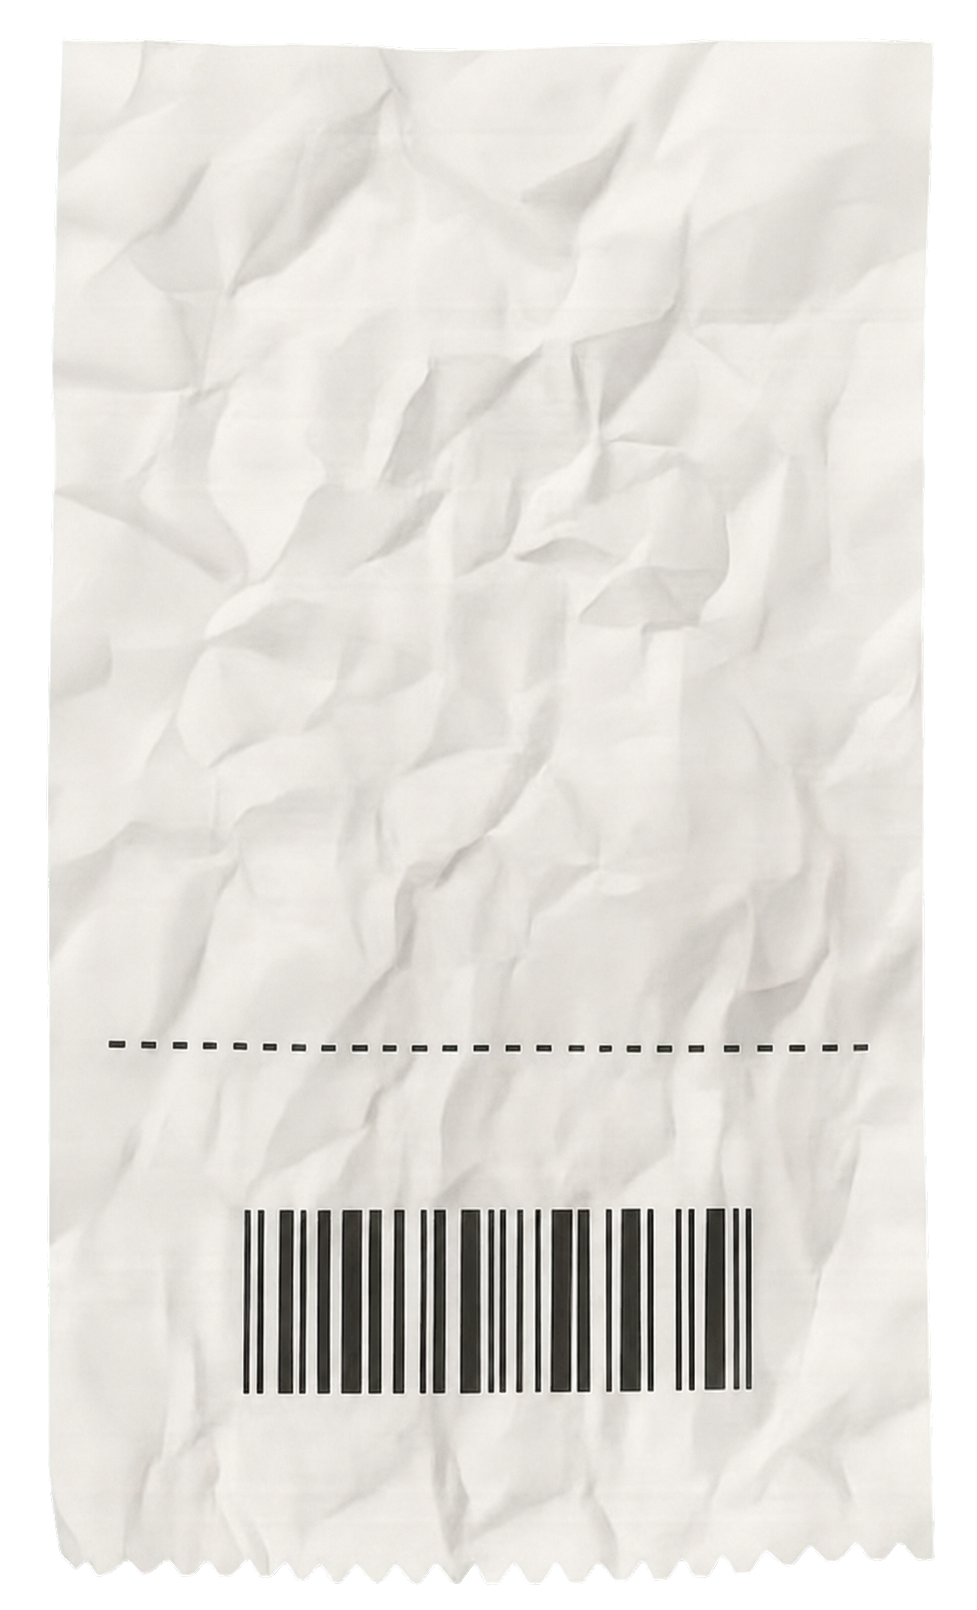
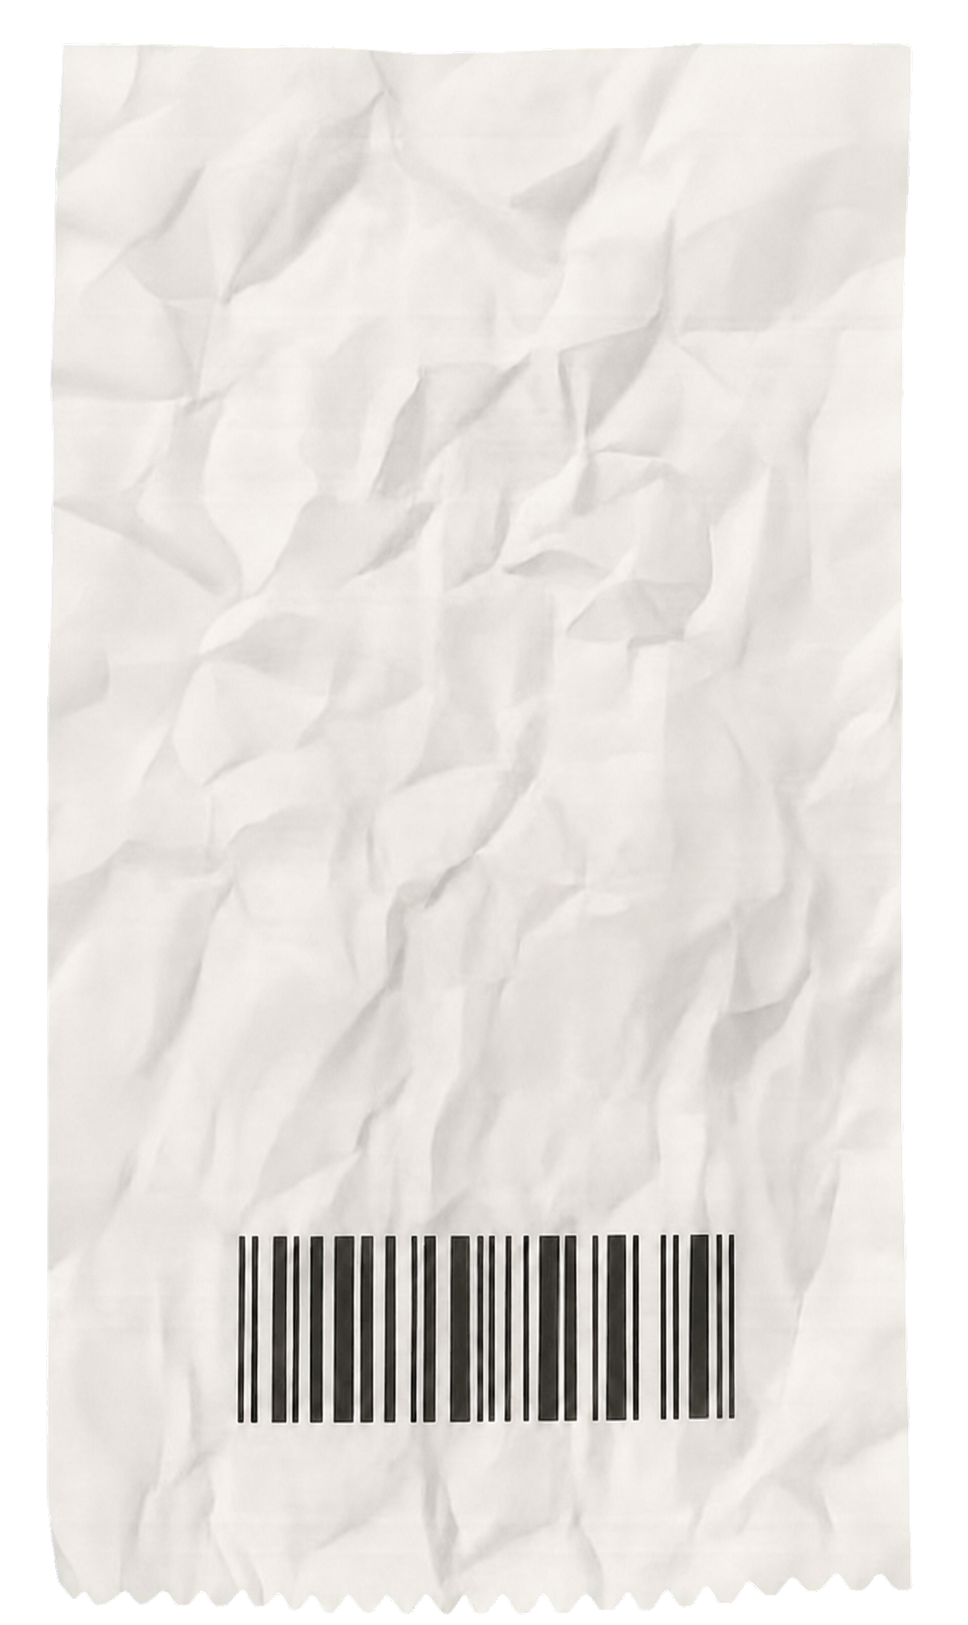
fix: 영수증 템플릿과 티켓 정보 개선

diff --git a/memory-drawer/frontend/src/features/drawer/CardDetail.jsx b/memory-drawer/frontend/src/features/drawer/CardDetail.jsx
@@ -154,9 +154,11 @@ function TicketBackContent({ back }) {
     <section className="memory-card__ticket-back-content" aria-label="티켓 뒷면 회상 기록">
       <h1 title={back.title}>{back.title || '나의 추억'}</h1>
       <p className="memory-card__ticket-summary">
-        <span>동행 {companions}</span>
-        <span>날씨 {back.weather || '-'}</span>
-        <span>기분 {back.mood || '-'}</span>
+        <span>동행: {companions}</span>
+        <span aria-hidden="true">|</span>
+        <span>날씨: {back.weather || '-'}</span>
+        <span aria-hidden="true">|</span>
+        <span>기분: {back.mood || '-'}</span>
       </p>
 
       <section className="memory-card__ticket-page" aria-live="polite">

diff --git a/memory-drawer/frontend/src/features/drawer/CardDetail.css b/memory-drawer/frontend/src/features/drawer/CardDetail.css
@@ -348,8 +348,8 @@
 }
 
 .memory-card--receipt.memory-card--back {
-  /* 영수증의 점선 위까지만 기록과 사진이 표시되도록 하단 영역을 비워둔다. */
-  padding-bottom: 54%;
+  /* 기록·사진은 바코드 바로 위까지만 표시하고, 하단 바코드 영역은 비워둔다. */
+  padding-bottom: 42%;
 }
 
 .memory-card--receipt.memory-card--back .memory-card__metadata {
